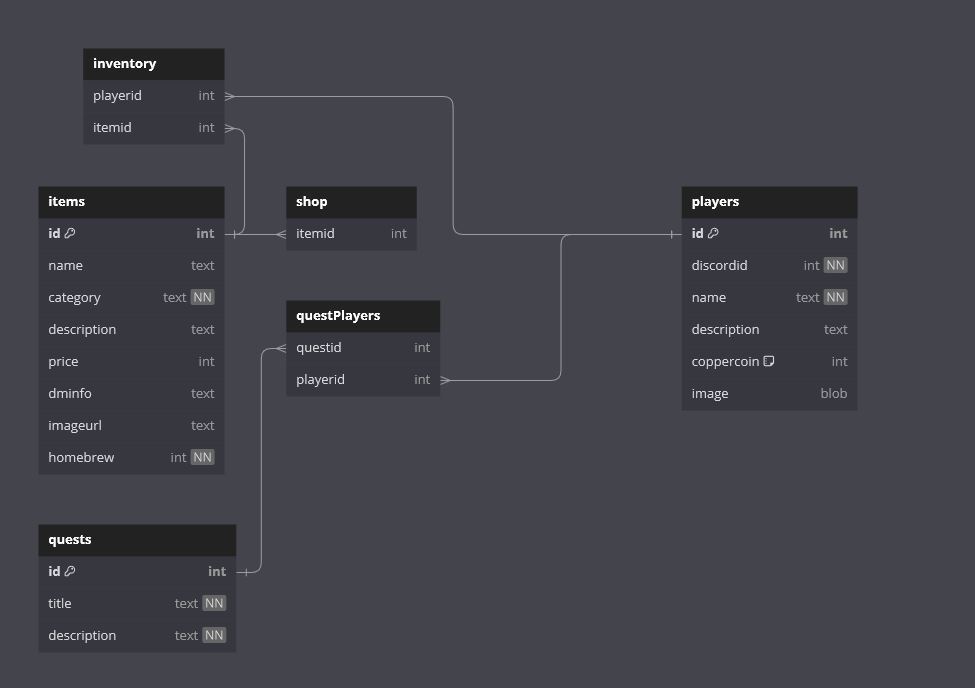
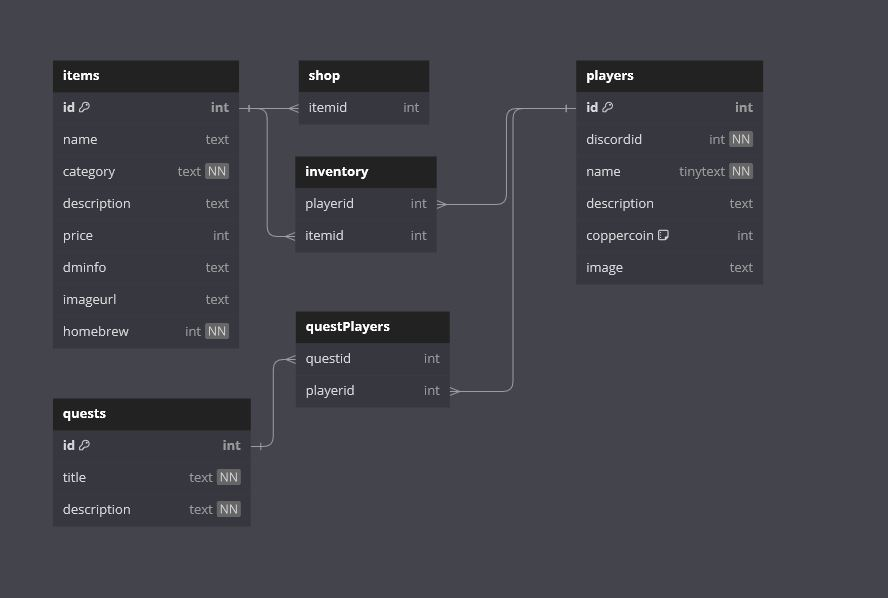
update on a lot of small stuff

diff --git a/database/db-controller.js b/database/db-controller.js
@@ -40,7 +40,7 @@ class Items {
         const localName = name.toUpperCase();
         return new Promise((resolve, reject) => {
             const db = new sqlite3.Database(database);
-            db.get('SELECT * FROM items WHERE name = ?', [localName], (err, row) => {
+            db.get('SELECT * FROM items WHERE name = ? COLLATE NOCASE', [localName], (err, row) => {
                 if (err) {
                     console.log(err);
                     reject(err);
@@ -58,7 +58,7 @@ class Items {
         const localName = name.toUpperCase();
         return new Promise((resolve, reject) => {
             const db = new sqlite3.Database(database);
-            db.get('SELECT name FROM items WHERE name = ?', [localName], (err, row) => {
+            db.get('SELECT name FROM items WHERE name = ? COLLATE NOCASE', [localName], (err, row) => {
                 if (err) {
                     console.log(err);
                     reject(err);
@@ -96,7 +96,7 @@ class Items {
     deleteItem(name) {
         const localName = name.toUpperCase();
         const db = new sqlite3.Database(database);
-        db.run('DELETE FROM items WHERE name = ?', [localName], (err) => {
+        db.run('DELETE FROM items WHERE name = ? COLLATE NOCASE', [localName], (err) => {
             if (err) {
                 console.log(err);
             } else {
@@ -113,7 +113,7 @@ class Items {
         } else {
             homebrew = 0;
         }
-        db.run('UPDATE items SET category= ?, description = ?, price = ?, dminfo = ?, imageurl = ?, homebrew = ? WHERE name = ?', [category, description, price, dminfo, imageurl, homebrew, name], (err) => {
+        db.run('UPDATE items SET category= ?, description = ?, price = ?, dminfo = ?, imageurl = ?, homebrew = ? WHERE name = ? COLLATE NOCASE', [category, description, price, dminfo, imageurl, homebrew, name], (err) => {
             if (err) {
                 console.log(err);
             } else {
@@ -148,7 +148,7 @@ class Player {
     async fetchPlayerByName(name) {
         return new Promise((resolve, reject) => {
             const db = new sqlite3.Database(database);
-            db.get('SELECT * FROM players WHERE name = ?', [name], (err, row) => {
+            db.get('SELECT * FROM players WHERE name = ? COLLATE NOCASE', [name], (err, row) => {
                 if (err) {
                     console.error(err.message);
                     reject(err);

diff --git a/commands/test/player.js b/commands/test/player.js
@@ -109,8 +109,16 @@ async function edit(interaction) {
         playerCoppercoin = coppercoin || fetchedPlayer.coppercoin;
         playerImage = image ? image.attachment : fetchedPlayer.image;
 
-        await player.updatePlayer(interaction.user.id, playerName, playerDescription, playerCoppercoin, playerImage);
-        interaction.reply({ content: 'Player updated', ephemeral: true });
+        if (playerName.length > 255) {
+            await interaction.reply({ content: 'Name is too long, please shorten it to less than 255 characters', ephemeral: true });
+            return;
+        } else if (playerDescription.length > 1024) {
+            await interaction.reply({ content: 'Description is too long please shorten it to less than 1024 characters', ephemeral: true });
+            return;
+        } else {
+            await player.updatePlayer(interaction.user.id, playerName, playerDescription, playerCoppercoin, playerImage);
+            interaction.reply({ content: 'Player updated', ephemeral: true });
+        }
     } else {
         if (name) {
             // TODO: edit this to be only the edit function instead of the put function

diff --git a/deploy-commands.js b/deploy-commands.js
@@ -39,16 +39,16 @@ const rest = new REST().setToken(TOKEN);
 		console.log(`Started refreshing ${commands.length} application (/) commands.`);
 
 	// The put method is used to fully refresh all commands in the guild with the current set
-		 //const data = await rest.put(
-		 //	Routes.applicationGuildCommands(CLIENT_ID, GUILD_ID),
-		 //	{ body: commands },
-		 //);
+		 const data = await rest.put(
+		 	Routes.applicationGuildCommands(CLIENT_ID, GUILD_ID),
+		 	{ body: commands },
+		 );
 
 	// The put method is used to fully refresh all commands globally with the current set
-		const data = await rest.put(
-			Routes.applicationCommands(CLIENT_ID),
-			{ body: commands },
-		);
+		// const data = await rest.put(
+		// 	Routes.applicationCommands(CLIENT_ID),
+		// 	{ body: commands },
+		// );
 
 		console.log(`Successfully reloaded ${data.length} application (/) commands.`);
 	} catch (error) {

diff --git a/database/db-initialiser.js b/database/db-initialiser.js
@@ -42,7 +42,7 @@ class Initialise {
         db.run(`CREATE TABLE IF NOT EXISTS players (
             id INTEGER PRIMARY KEY AUTOINCREMENT, 
             discordid integer NOT NULL,
-            name TEXT NOT NULL UNIQUE,
+            name TINYTEXT NOT NULL UNIQUE,
             description TEXT,
             coppercoin INTEGER DEFAULT 0,
             image TEXT)`);

diff --git a/doc/database.md b/doc/database.md
@@ -25,7 +25,7 @@ Table inventory {
 Table players {
   id int [primary key, increment]
   discordid int [not null]
-  name text [not null]
+  name tinytext [not null]
   description text
   coppercoin int [default: 0]
   image text
